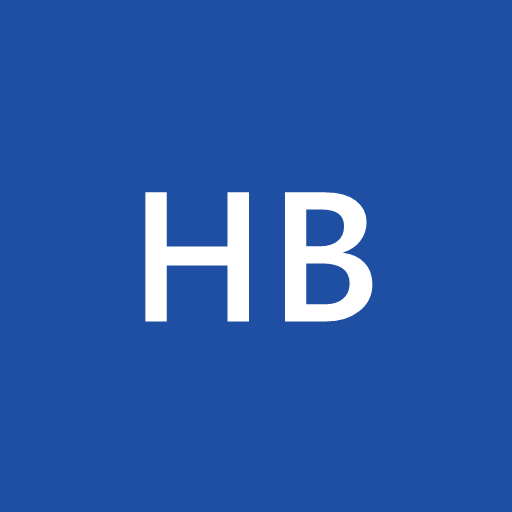
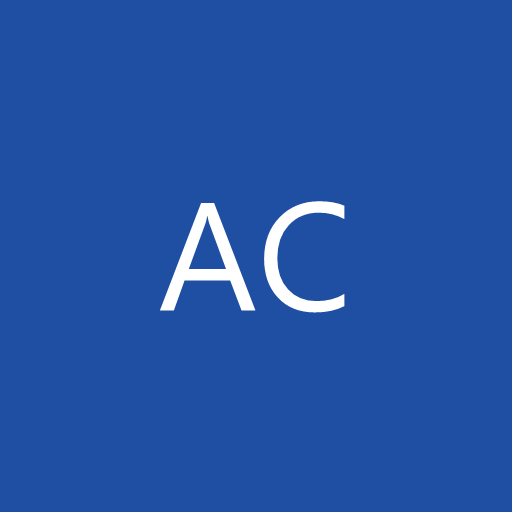
Add files via upload
AndyCare 1.3.1-dev.6

Changed region(s): [[0.2812, 0.375, 0.75, 0.6562]]

diff --git a/handy.js b/handy.js
@@ -1,18 +1,22 @@
-// Hausblick Erfassen – Handyseite (1.3.1, U-37, E-87, Lösung C). Nur „Mangel erfassen“: Foto (mit Markieren), Ort, Beschreibung,
+// AndyCare Erfassen – Handyseite (1.3.1, U-37, E-87, Lösung C). Nur „Mangel erfassen“: Foto (mit Markieren), Ort, Beschreibung,
 // Zuständigkeit, Gefährdung. „Bestätigen“ legt den Eintrag auf DIESEM Handy ab (IndexedDB, auch ohne Netz). „An PC übergeben“
 // erzeugt eine verschlüsselte Datei (AES-GCM mit dem Schlüssel aus der Kopplungsdatei); Andy gibt sie selbst an den PC
-// (Mail, Teams, USB), Hausblick liest sie unter Einträge → „Vom Handy“. Seit U-38 (Freigabe IT 30.10.2026): Mit Postfach in der
-// Kopplungsdatei geht jeder bestätigte Eintrag gleich verschlüsselt ins Hausblick-Postfach (Cloudflare Worker, sieht nur
-// verschlüsselte Daten); Hausblick holt ihn dort mit „Gemeldete Mängel abrufen“. Ohne Netz wird nachgesendet.
+// (Mail, Teams, USB), AndyCare liest sie unter Einträge → „Vom Handy“. Seit U-38 (Freigabe IT 30.10.2026): Mit Postfach in der
+// Kopplungsdatei geht jeder bestätigte Eintrag gleich verschlüsselt ins AndyCare-Postfach (Cloudflare Worker, sieht nur
+// verschlüsselte Daten); AndyCare holt ihn dort mit „Gemeldete Mängel abrufen“. Ohne Netz wird nachgesendet.
+// Seit 1.3.1-dev.6 (Audit 31.10.2026): Kopplungsdatei nur mit dem Einmalcode vom PC-Bildschirm (AC-06); Senden mit eigenem
+// Schreibzugang im Kopf (AC-04); Gesendetes bleibt auf dem Handy, bis AndyCare die Übernahme quittiert – fehlt ein Paket ohne
+// Quittung im Postfach (z. B. verfallen), sendet das Handy es neu (AC-05).
 (function () {
   'use strict';
   const FASSUNG = '1.3.1';
-  const S = { kopplung: null, eintraege: [], ansicht: 'erfassen', cap: null, q: '', mk: null, loeschFrage: false, fehler: '' };
+  const S = { kopplung: null, eintraege: [], ansicht: 'erfassen', cap: null, q: '', mk: null, loeschFrage: false, fehler: '', koppelText: null };
   const leer = () => ({ fotos: [], marken: [], code: null, ortText: '', text: '', zust: null, typ: 'Mangel' });
   S.cap = leer();
   // Zuständig am Handy nur Haustechnik oder Technischer Dienst; keine „Gefährdung“ (1.3.1-dev.3, U-40)
   const ZUST = [['intern', 'Haustechnik'], ['TeDi', 'Technischer Dienst']];
-  const FOTOS_MAX = 6, KANTE = 1600, QUALITAET = 0.82, B64 = /^[A-Za-z0-9+/]{43}=$/, KENNUNG = /^[0-9a-f]{12}$/;
+  const FOTOS_MAX = 6, KANTE = 1600, QUALITAET = 0.82, B64 = /^[A-Za-z0-9+/]{43}=$/, KENNUNG = /^[0-9a-f]{12}$/, ZUGANG = /^[A-Za-z0-9_-]{43}$/;
+  const KOPPEL_ITER = 600000, KOPPEL_AAD = 'hausblick-handy-kopplung-v2', NACH_MIN = 10;   // NACH_MIN: Liste im Postfach hinkt nach
 
   // ---------- Hilfen ----------
   const esc = s => String(s == null ? '' : s).replace(/[&<>"']/g, c => ({ '&': '&amp;', '<': '&lt;', '>': '&gt;', '"': '&quot;', "'": '&#39;' }[c]));
@@ -38,22 +42,37 @@
   const sichern = () => schreib('eintraege', S.eintraege).catch(() => toast('Achtung: Speicher nicht verfügbar – nur bis zum Schließen'));
 
   // ---------- Kopplungsdatei vom PC (Raumliste und Schlüssel, einmalig) ----------
-  function kopplungAus(text) {
-    let j; try { j = JSON.parse(text); } catch (e) { throw new Error('Keine Kopplungsdatei.'); }
-    if (!j || j.format !== 'hausblick-handy-kopplung' || j.version !== 1 || !KENNUNG.test(j.kennung) || !B64.test(j.schluessel)) throw new Error('Keine Kopplungsdatei.');
+  // Inhalt nach dem Entschlüsseln prüfen
+  function kopplungAus(j) {
+    if (!j || j.format !== 'hausblick-handy-kopplung-inhalt' || j.version !== 2 || !KENNUNG.test(j.kennung) || !B64.test(j.schluessel)) throw new Error('Keine Kopplungsdatei.');
     const raeume = (Array.isArray(j.raeume) ? j.raeume : []).slice(0, 5000).filter(r => Array.isArray(r) && typeof r[0] === 'string' && typeof r[1] === 'string')
       .map(r => [r[0].slice(0, 40), r[1].slice(0, 120), String(r[2] || '').slice(0, 60), String(r[3] || '').slice(0, 60)]);
-    // Postfach im Netz (1.3.1, U-38): nur eine Worker-Adresse (bzw. localhost für die Vorschau) und eine zufällige Kennung
-    const p = j.postfach && typeof j.postfach === 'object' && /^(https:\/\/[a-z0-9-]+\.[a-z0-9-]+\.workers\.dev|http:\/\/localhost:\d{2,5})$/.test(String(j.postfach.url || '')) && /^[0-9a-f]{32}$/.test(String(j.postfach.id || '')) ? { url: j.postfach.url, id: j.postfach.id } : null;
+    // Postfach im Netz (1.3.1, U-38): nur das AndyCare-Postfach (bzw. localhost für die Vorschau), zufällige Kennung, Schreibzugang
+    const p = j.postfach && typeof j.postfach === 'object' && /^(https:\/\/hausblick-postfach\.[a-z0-9-]+\.workers\.dev|http:\/\/localhost:\d{2,5})$/.test(String(j.postfach.url || ''))
+      && /^[0-9a-f]{32}$/.test(String(j.postfach.id || '')) && ZUGANG.test(String(j.postfach.schreib || '')) ? { url: j.postfach.url, id: j.postfach.id, schreib: j.postfach.schreib } : null;
     return { kennung: j.kennung, schluessel: j.schluessel, postfach: p, raeume, erstellt: String(j.erstellt || '').slice(0, 30) };
   }
-  async function koppeln(datei) {
-    const k = kopplungAus(await datei.text());
-    S.kopplung = k; await schreib('kopplung', k).catch(() => {});
+  // Datei (Version 2) mit dem Einmalcode vom PC-Bildschirm öffnen; Version 1 (Klartext) gilt nicht mehr
+  const codeNorm = c => String(c || '').toUpperCase().replace(/[^0-9A-Z]/g, '');
+  async function kopplungLesen(text, code) {
+    let j; try { j = JSON.parse(text); } catch (e) { throw new Error('Keine Kopplungsdatei.'); }
+    if (!j || j.format !== 'hausblick-handy-kopplung') throw new Error('Keine Kopplungsdatei.');
+    if (j.version === 1) throw new Error('Alte Kopplungsdatei – am PC neu koppeln.');
+    if (j.version !== 2 || !j.kdf || j.kdf.iterations !== KOPPEL_ITER || typeof j.kdf.salz !== 'string' || typeof j.iv !== 'string' || typeof j.daten !== 'string') throw new Error('Keine Kopplungsdatei.');
+    const c = codeNorm(code); if (c.length !== 12) throw new Error('Code: 12 Zeichen vom PC-Bildschirm.');
+    const enc = new TextEncoder(), basis = await crypto.subtle.importKey('raw', enc.encode(c), 'PBKDF2', false, ['deriveKey']);
+    const k = await crypto.subtle.deriveKey({ name: 'PBKDF2', hash: 'SHA-256', salt: ausB64(j.kdf.salz), iterations: KOPPEL_ITER }, basis, { name: 'AES-GCM', length: 256 }, false, ['decrypt']);
+    let klar; try { klar = await crypto.subtle.decrypt({ name: 'AES-GCM', iv: ausB64(j.iv), additionalData: enc.encode(KOPPEL_AAD) }, k, ausB64(j.daten)); } catch (e) { throw new Error('Code falsch.'); }
+    return kopplungAus(JSON.parse(new TextDecoder().decode(klar)));
+  }
+  async function koppeln(code) {
+    const k = await kopplungLesen(S.koppelText, code);
+    S.kopplung = k; S.koppelText = null; await schreib('kopplung', k).catch(() => {});
     toast(`Gekoppelt · ${k.raeume.length} Orte`);
+    senden();
   }
 
-  // ---------- Foto verkleinern (wie Hausblick: längste Kante 1600 px, JPEG) ----------
+  // ---------- Foto verkleinern (wie AndyCare: längste Kante 1600 px, JPEG) ----------
   function fotoLesen(datei) {
     return new Promise((ok, fehl) => {
       const u = URL.createObjectURL(datei), img = new Image();
@@ -68,7 +87,7 @@
     });
   }
 
-  // ---------- Markierung (Pfeil, Kreis) – gleiche Daten und gleiche Darstellung wie Hausblick (U-28) ----------
+  // ---------- Markierung (Pfeil, Kreis) – gleiche Daten und gleiche Darstellung wie AndyCare (U-28) ----------
   function formenSVG(m) {
     const s = Math.max(m.w, m.h), sw = Math.max(2, s * 0.012), f = n => Math.round(n * 10) / 10;
     return m.formen.map(x => {
@@ -91,7 +110,7 @@
   }
   async function bestaetigen() {
     const c = S.cap; if (!fertig(c)) return;
-    // je Problem ein eigener Eintrag (eigenes Ticket in Hausblick), gleich ins Postfach
+    // je Problem ein eigener Eintrag (eigenes Ticket in AndyCare), gleich ins Postfach
     S.eintraege.unshift({ hid: hex(crypto.getRandomValues(new Uint8Array(10))), d: new Date().toISOString(), text: c.text.trim().slice(0, 2000), code: c.code,
       ortText: c.code ? null : c.ortText.trim().slice(0, 120), zust: c.zust, typ: 'Mangel', fotos: c.fotos, marken: c.marken, status: 'wartet' });
     await sichern();
@@ -113,7 +132,10 @@
   const dateiInhalt = jetzt => paketInhalt(S.eintraege, jetzt);
 
   // ---------- Postfach (1.3.1, U-38): jeden wartenden Eintrag einzeln verschlüsselt ablegen; ohne Netz beim nächsten Mal ----------
+  // Seit 1.3.1-dev.6: mit Schreibzugang; 409 = liegt schon dort bzw. schon abgeholt (gilt als gesendet). Gesendetes bleibt
+  // auf dem Handy, bis die Quittung von AndyCare da ist (abgleich).
   let sendet = null;
+  const zugang = k => ({ Authorization: 'Bearer ' + k.postfach.schreib });
   function senden() {
     if (sendet) return sendet;
     sendet = (async () => {
@@ -121,33 +143,53 @@
       if (!k || !k.postfach) return 0;
       for (const e of S.eintraege.filter(x => x.status === 'wartet')) {
         try {
-          const r = await fetch(`${k.postfach.url}/p/${k.postfach.id}/${e.hid}`, { method: 'PUT', headers: { 'Content-Type': 'application/json' }, body: await paketInhalt([e]), cache: 'no-store' });
-          if (!r.ok) break;
-          e.status = 'gesendet'; n++;
+          const r = await fetch(`${k.postfach.url}/p/${k.postfach.id}/${e.hid}`, { method: 'PUT', headers: Object.assign({ 'Content-Type': 'application/json' }, zugang(k)), body: await paketInhalt([e]), cache: 'no-store' });
+          if (!r.ok && r.status !== 409) { if (r.status === 401 || r.status === 403) S.fehler = 'Postfach lehnt ab – am PC neu koppeln.'; break; }
+          e.status = 'gesendet'; e.gesendet = new Date().toISOString(); n++;
         } catch (err) { break; }   // kein Netz: später erneut
       }
-      // Gesendetes liegt verschlüsselt im Postfach – auf dem Handy nicht mehr nötig (Fotos belegen sonst Speicher)
-      if (n) { S.eintraege = S.eintraege.filter(e => e.status !== 'gesendet'); await sichern(); zeichnen(); }
+      if (n) { S.fehler = ''; await sichern(); zeichnen(); }
+      await abgleich();
       return n;
     })().finally(() => { sendet = null; });
     return sendet;
   }
+  // Quittungen holen: von AndyCare Übernommenes vom Handy löschen; Gesendetes ohne Quittung, das nicht mehr im Postfach liegt
+  // (verfallen oder entfernt), wird wieder „wartet“ und neu gesendet. Ergebnis: Anzahl gelöschter Einträge.
+  async function abgleich() {
+    const k = S.kopplung;
+    if (!k || !k.postfach || !S.eintraege.some(e => e.status === 'gesendet')) return 0;
+    let j; try { const r = await fetch(`${k.postfach.url}/q/${k.postfach.id}`, { headers: zugang(k), cache: 'no-store' }); if (!r.ok) return 0; j = await r.json(); } catch (e) { return 0; }
+    const q = new Set(Array.isArray(j.quittiert) ? j.quittiert : []), da = new Set(Array.isArray(j.vorhanden) ? j.vorhanden : []), grenze = Date.now() - NACH_MIN * 60000;
+    let weg = 0, neu = 0;
+    S.eintraege = S.eintraege.filter(e => {
+      if (e.status !== 'gesendet') return true;
+      if (q.has(e.hid)) { weg++; return false; }
+      if (!da.has(e.hid) && new Date(e.gesendet || 0).getTime() < grenze) { e.status = 'wartet'; neu++; }
+      return true;
+    });
+    if (weg || neu) { await sichern(); zeichnen(); }
+    if (neu) setTimeout(() => senden(), 0);
+    return weg;
+  }
+  const tageOffen = e => Math.floor((Date.now() - new Date(e.gesendet || e.d).getTime()) / 86400000);
   async function uebergeben() {
     if (!S.eintraege.length || !S.kopplung) return;
-    const j = new Date(), name = `Hausblick_Handy_${j.getFullYear()}-${zwei(j.getMonth() + 1)}-${zwei(j.getDate())}_${zwei(j.getHours())}${zwei(j.getMinutes())}.hbhandy`;
+    const j = new Date(), name = `AndyCare_Handy_${j.getFullYear()}-${zwei(j.getMonth() + 1)}-${zwei(j.getDate())}_${zwei(j.getHours())}${zwei(j.getMinutes())}.hbhandy`;
     const datei = new File([await dateiInhalt(j)], name, { type: 'application/json' });
     let geteilt = false;
     if (navigator.canShare && navigator.share && navigator.canShare({ files: [datei] })) {
-      try { await navigator.share({ files: [datei], title: 'Hausblick' }); geteilt = true; } catch (e) { if (e && e.name === 'AbortError') return; }
+      try { await navigator.share({ files: [datei], title: 'AndyCare' }); geteilt = true; } catch (e) { if (e && e.name === 'AbortError') return; }
     }
     if (!geteilt) { const u = URL.createObjectURL(datei), a = document.createElement('a'); a.href = u; a.download = name; document.body.appendChild(a); a.click(); a.remove(); setTimeout(() => URL.revokeObjectURL(u), 4000); }
     S.eintraege.forEach(e => { if (e.status === 'wartet') e.status = 'uebergeben'; e.uebergeben = j.toISOString(); });
     await sichern(); zeichnen();
     toast(geteilt ? 'Übergabedatei geteilt' : 'Übergabedatei gespeichert (Downloads)');
   }
+  // nur per Datei Übergebenes; Gesendetes verschwindet erst mit der Quittung von AndyCare
   async function loeschen() {
     if (!S.loeschFrage) { S.loeschFrage = true; zeichnen(); return; }
-    S.eintraege = S.eintraege.filter(e => e.status === 'wartet'); S.loeschFrage = false;
+    S.eintraege = S.eintraege.filter(e => e.status !== 'uebergeben'); S.loeschFrage = false;
     await sichern(); zeichnen(); toast('Übergebene Einträge vom Handy gelöscht');
   }
 
@@ -159,7 +201,7 @@
       : c.ortText ? `<div class="ort"><span><b>${esc(c.ortText)}</b><small>Ort noch zu klären</small></span><button type="button" data-act="ort-x" aria-label="Ort ändern">×</button></div>`
       : `<input type="search" id="q" value="${esc(S.q)}" placeholder="Raum, Code oder Ort" autocomplete="off" enterkeyhint="search">
         <div id="treffer">${trefferHTML()}</div>`;
-    return `<div class="feld"><span class="lbl">Foto</span>
+    return `<div class="feld"><span class="lbl">Foto</span><small class="hinweis">Keine Personen, keine Namen fotografieren.</small>
         <label class="btn voll"><svg viewBox="0 0 24 24" aria-hidden="true"><path d="M4 8h3l2-3h6l2 3h3v11H4z"/><circle cx="12" cy="13" r="3.5"/></svg> Foto aufnehmen<input type="file" id="foto" accept="image/*" capture="environment" hidden></label>
         ${c.fotos.length ? `<div class="fotos">${c.fotos.map((f, i) => `<div class="foto">${fotoSVG(f, c.marken[i])}<button type="button" class="mk" data-act="mk" data-k="${i}">Markieren</button><button type="button" class="x" data-act="foto-x" data-k="${i}" aria-label="Foto entfernen">×</button></div>`).join('')}</div>` : ''}</div>
       <div class="feld"><span class="lbl">Ort</span>${ort}</div>
@@ -175,21 +217,28 @@
   }
   // „⋯“ (1.3.1-dev.3): Noch nicht Gesendetes (nur ohne Netz bzw. ohne Postfach), Datei als Rückfall, Kopplung
   function uebergabeHTML() {
-    const n = S.eintraege.length, ueb = S.eintraege.filter(e => e.status !== 'wartet').length, pf = !!S.kopplung.postfach;
+    const n = S.eintraege.length, ueb = S.eintraege.filter(e => e.status === 'uebergeben').length, pf = !!S.kopplung.postfach;
     const ortT = e => { const r = e.code && raum(e.code); return r ? `${r[1]} (${r[0]})` : e.ortText || ''; };
-    const st = { uebergeben: ' · <span class="st-ok">übergeben</span>' };
-    return `${n ? `<ul class="liste">${S.eintraege.map(e => `<li><b>${esc(e.text.split(/[.,!]/)[0].slice(0, 70))}</b><small>${esc(ortT(e))} · ${esc(datum(new Date(e.d)))}${st[e.status] || (pf ? ' · noch nicht gesendet' : '')}</small></li>`).join('')}</ul>
+    // gesendet, aber noch nicht von AndyCare abgeholt: ab 3 Tagen als Warnung
+    const st = e => e.status === 'uebergeben' ? ' · <span class="st-ok">übergeben</span>'
+      : e.status === 'gesendet' ? (tageOffen(e) >= 3 ? ` · <span class="st-warn">seit ${tageOffen(e)} Tagen nicht abgeholt</span>` : ' · gesendet') : pf ? ' · noch nicht gesendet' : '';
+    return `${S.fehler ? `<p role="alert" class="fehler">${esc(S.fehler)}</p>` : ''}${n ? `<ul class="liste">${S.eintraege.map(e => `<li><b>${esc(e.text.split(/[.,!]/)[0].slice(0, 70))}</b><small>${esc(ortT(e))} · ${esc(datum(new Date(e.d)))}${st(e)}</small></li>`).join('')}</ul>
         ${pf && wartend() ? '<button type="button" class="btn primary voll abstand" data-act="nachsenden">Jetzt senden</button>' : ''}
         <button type="button" class="btn voll abstand" data-act="uebergeben">Als Datei übergeben</button>` : '<p class="leer">Alles gesendet.</p>'}
       ${ueb ? `<button type="button" class="btn voll abstand" data-act="loeschen">${S.loeschFrage ? 'Wirklich vom Handy löschen?' : `Übergebene löschen (${ueb})`}</button>` : ''}
-      <div class="karte"><b>Kopplung</b><small>${S.kopplung.raeume.length} Orte · Hausblick ${esc(FASSUNG)}</small>
+      <div class="karte"><b>Kopplung</b><small>${S.kopplung.raeume.length} Orte · AndyCare ${esc(FASSUNG)}</small>
         <label class="btn voll abstand">Neue Kopplungsdatei<input type="file" id="kopplung" accept=".json,application/json" hidden></label></div>
       <div class="fuss"><div class="innen"><button type="button" class="btn" data-act="zurueck">Zurück</button></div></div>`;
   }
   function koppelnHTML() {
-    return `<div class="karte"><b>Noch nicht gekoppelt</b><small>Kopplungsdatei aus Hausblick wählen.</small>
-      <label class="btn primary voll abstand">Kopplungsdatei wählen<input type="file" id="kopplung" accept=".json,application/json" hidden></label></div>
-      ${S.fehler ? `<p role="alert" class="fehler">${esc(S.fehler)}</p>` : ''}`;
+    const f = S.fehler ? `<p role="alert" class="fehler">${esc(S.fehler)}</p>` : '';
+    // Schritt 2: Code vom PC-Bildschirm (Datei allein genügt nicht)
+    if (S.koppelText) return `<div class="karte"><b>Code eingeben</b><small>Steht am PC unter Einstellungen → Handy.</small>
+      <input type="text" id="code" class="code abstand" autocomplete="off" autocapitalize="characters" spellcheck="false" maxlength="16" placeholder="XXXX-XXXX-XXXX">
+      <button type="button" class="btn primary voll abstand" data-act="koppeln">Koppeln</button>
+      <button type="button" class="btn voll abstand" data-act="koppeln-x">Abbrechen</button></div>${f}`;
+    return `<div class="karte"><b>Noch nicht gekoppelt</b><small>Kopplungsdatei aus AndyCare wählen.</small>
+      <label class="btn primary voll abstand">Kopplungsdatei wählen<input type="file" id="kopplung" accept=".json,application/json" hidden></label></div>${f}`;
   }
   function mkHTML() {
     const m = S.mk, f = S.cap.fotos[m.i], mk = { w: f.w, h: f.h, formen: m.formen.concat(m.vorschau ? [m.vorschau] : []) };
@@ -199,7 +248,7 @@
   function zeichnen() {
     const app = document.getElementById('app'); if (!app) return;
     const kopf = `<header class="kopf"><h1>${S.ansicht === 'uebergabe' ? 'Weitere' : 'Mangel erfassen'}</h1>${S.kopplung && S.ansicht !== 'uebergabe' ? '<button type="button" class="mehr" data-act="liste" aria-label="Weitere: Übergabe und Kopplung">⋯</button>' : ''}</header>`;
-    app.innerHTML = kopf + (!S.kopplung ? koppelnHTML() : S.ansicht === 'uebergabe' ? uebergabeHTML() : erfassenHTML()) + (S.mk ? mkHTML() : '');
+    app.innerHTML = kopf + (!S.kopplung || S.koppelText ? koppelnHTML() : S.ansicht === 'uebergabe' ? uebergabeHTML() : erfassenHTML()) + (S.mk ? mkHTML() : '');
     if (S.mk) mkZiehen();
   }
   // nur die Trefferliste und den Knopf neu zeichnen, damit das Feld beim Tippen den Fokus behält
@@ -231,6 +280,12 @@
     uebergeben: () => uebergeben().catch(e => toast('Übergabe nicht möglich: ' + (e && e.message || e))), loeschen,
     zust: el => { S.cap.zust = el.dataset.k; zeichnen(); },
     nachsenden: async () => { const n = await senden(); toast(n ? `${n} gesendet` : 'Kein Netz – später erneut'); zeichnen(); },
+    koppeln: async () => {
+      const c = document.getElementById('code');
+      try { await koppeln(c && c.value); S.fehler = ''; S.ansicht = 'erfassen'; } catch (e) { S.fehler = e.message; toast(e.message); }
+      zeichnen();
+    },
+    'koppeln-x': () => { S.koppelText = null; S.fehler = ''; zeichnen(); },
     ort: el => { S.cap.code = el.dataset.k; S.cap.ortText = ''; S.q = ''; zeichnen(); }, 'ort-frei': () => { S.cap.code = null; S.cap.ortText = S.q.trim(); S.q = ''; zeichnen(); },
     'ort-x': () => { S.cap.code = null; S.cap.ortText = ''; zeichnen(); const q = document.getElementById('q'); if (q) q.focus(); },
     'foto-x': el => { const i = +el.dataset.k; S.cap.fotos.splice(i, 1); S.cap.marken.splice(i, 1); zeichnen(); },
@@ -246,8 +301,8 @@
   document.addEventListener('change', async ev => {
     const el = ev.target;
     if (el.id === 'kopplung' && el.files && el.files[0]) {
-      try { await koppeln(el.files[0]); S.fehler = ''; S.ansicht = 'erfassen'; } catch (e) { S.fehler = e.message; toast(e.message); }
-      zeichnen();
+      try { const t = await el.files[0].text(); if (t.length > 2e6) throw new Error('Keine Kopplungsdatei.'); S.koppelText = t; S.fehler = ''; } catch (e) { S.fehler = e.message; toast(e.message); }
+      zeichnen(); const c = document.getElementById('code'); if (c && c.focus) c.focus();
     } else if (el.id === 'foto' && el.files) {
       const l = Array.from(el.files).slice(0, FOTOS_MAX - S.cap.fotos.length);
       for (const d of l) { try { S.cap.fotos.push(await fotoLesen(d)); S.cap.marken.push(null); } catch (e) { toast(e.message); } }
@@ -265,6 +320,6 @@
     if (navigator.storage && navigator.storage.persist) navigator.storage.persist().catch(() => {});
     if ('serviceWorker' in navigator && window.isSecureContext) navigator.serviceWorker.register('sw.js').catch(() => {});
   }
-  window.HausblickHandy = { S, kopplungAus, dateiInhalt, paketInhalt, senden, bestaetigen, formenSVG, treffer, zeichnen, start: () => start() };
+  window.AndyCareHandy = { S, kopplungAus, kopplungLesen, koppeln, dateiInhalt, paketInhalt, senden, abgleich, loeschen, bestaetigen, formenSVG, treffer, zeichnen, start: () => start() };
   if (!window.HAUSBLICK_HANDY_TEST) start();
 })();

diff --git a/index.html b/index.html
@@ -3,21 +3,21 @@
 <head>
 <meta charset="utf-8">
 <meta name="viewport" content="width=device-width, initial-scale=1, viewport-fit=cover">
-<meta http-equiv="Content-Security-Policy" content="default-src 'none'; script-src 'self'; style-src 'self'; img-src 'self' data: blob:; font-src 'self'; connect-src 'self' https://*.workers.dev http://localhost:*; manifest-src 'self'; worker-src 'self'; base-uri 'none'; form-action 'none'">
+<meta http-equiv="Content-Security-Policy" content="default-src 'none'; script-src 'self'; style-src 'self'; img-src 'self' data: blob:; font-src 'self'; connect-src 'self' https://hausblick-postfach.k2cnzmm9ws.workers.dev http://localhost:*; manifest-src 'self'; worker-src 'self'; base-uri 'none'; form-action 'none'">
 <meta name="referrer" content="no-referrer">
 <meta name="robots" content="noindex, nofollow">
 <meta name="theme-color" content="#1f4fa3">
 <meta name="apple-mobile-web-app-capable" content="yes">
 <meta name="apple-mobile-web-app-title" content="Erfassen">
-<title>Hausblick Erfassen</title>
+<title>AndyCare Erfassen</title>
 <link rel="manifest" href="manifest.webmanifest">
 <link rel="icon" href="icon-192.png">
 <link rel="apple-touch-icon" href="icon-180.png">
 <link rel="stylesheet" href="handy.css">
 </head>
 <body>
-<!-- Hausblick – Erfassen am Handy (1.3.1, U-37, E-87; Postfach U-38). Bestätigte Mängel gehen verschlüsselt ins
-     Hausblick-Postfach (Cloudflare Worker); Hausblick am PC holt sie dort ab. Ohne Netz bleiben sie auf dem Handy und werden
+<!-- AndyCare – Erfassen am Handy (1.3.1, U-37, E-87; Postfach U-38). Bestätigte Mängel gehen verschlüsselt ins
+     AndyCare-Postfach (Cloudflare Worker); AndyCare am PC holt sie dort ab. Ohne Netz bleiben sie auf dem Handy und werden
      nachgesendet; als Rückfall gibt es weiter die Übergabedatei. Keine direkte Verbindung zum Programm. -->
 <main id="app" aria-live="polite"></main>
 <div id="toast" role="status" hidden></div>

diff --git a/handy.css b/handy.css
@@ -1,4 +1,4 @@
-/* Hausblick Erfassen (Handy, 1.3.1, U-37) – Gestaltung „Amtlich klar“ wie Hausblick am PC, Schrift +20 % wie „Mangel erfassen“ (E-73) */
+/* AndyCare Erfassen (Handy, 1.3.1, U-37) – Gestaltung „Amtlich klar“ wie AndyCare am PC, Schrift +20 % wie „Mangel erfassen“ (E-73) */
 @font-face { font-family: 'Source Sans 3'; font-weight: 400; font-display: swap; src: url('fonts/source-sans-3-400.woff2') format('woff2'); }
 @font-face { font-family: 'Source Sans 3'; font-weight: 500; font-display: swap; src: url('fonts/source-sans-3-500.woff2') format('woff2'); }
 @font-face { font-family: 'Source Sans 3'; font-weight: 600; font-display: swap; src: url('fonts/source-sans-3-600.woff2') format('woff2'); }
@@ -52,6 +52,9 @@ textarea { min-height: 120px; resize: vertical; }
 .liste li { border-bottom: 1px solid var(--border); padding: 12px 0; }
 .liste small { display: block; color: var(--text-2); font-size: 16px; }
 .st-ok { color: var(--green); font-weight: 600; }
+.st-warn { color: var(--red); font-weight: 600; }
+.feld > .hinweis { display: block; color: var(--text-2); font-size: 16px; margin: -2px 0 8px; }
+input.code { font-size: 26px; letter-spacing: .12em; text-transform: uppercase; text-align: center; }
 .leer { color: var(--text-2); }
 #toast { position: fixed; left: 16px; right: 16px; bottom: calc(96px + env(safe-area-inset-bottom)); max-width: 560px; margin: 0 auto; padding: 14px 16px; border-radius: var(--radius); background: var(--text); color: #fff; font-weight: 500; }
 /* Markieren: Foto bildschirmfüllend, Pfeil oder Kreis ziehen */

diff --git a/sw.js b/sw.js
@@ -1,5 +1,5 @@
-// Hausblick Erfassen – Offline-Speicher der Seite (nur die eigenen Programmdateien, nie Daten). Neue Fassung = neuer Name.
-const FASSUNG = 'hausblick-handy-1.3.1-dev3';
+// AndyCare Erfassen – Offline-Speicher der Seite (nur die eigenen Programmdateien, nie Daten). Neue Fassung = neuer Name.
+const FASSUNG = 'hausblick-handy-1.3.1-dev6';
 const DATEIEN = ['./', 'index.html', 'handy.css', 'handy.js', 'manifest.webmanifest', 'icon-180.png', 'icon-192.png', 'icon-512.png',
   'fonts/source-sans-3-400.woff2', 'fonts/source-sans-3-500.woff2', 'fonts/source-sans-3-600.woff2'];
 self.addEventListener('install', e => { e.waitUntil(caches.open(FASSUNG).then(c => c.addAll(DATEIEN)).then(() => self.skipWaiting())); });
